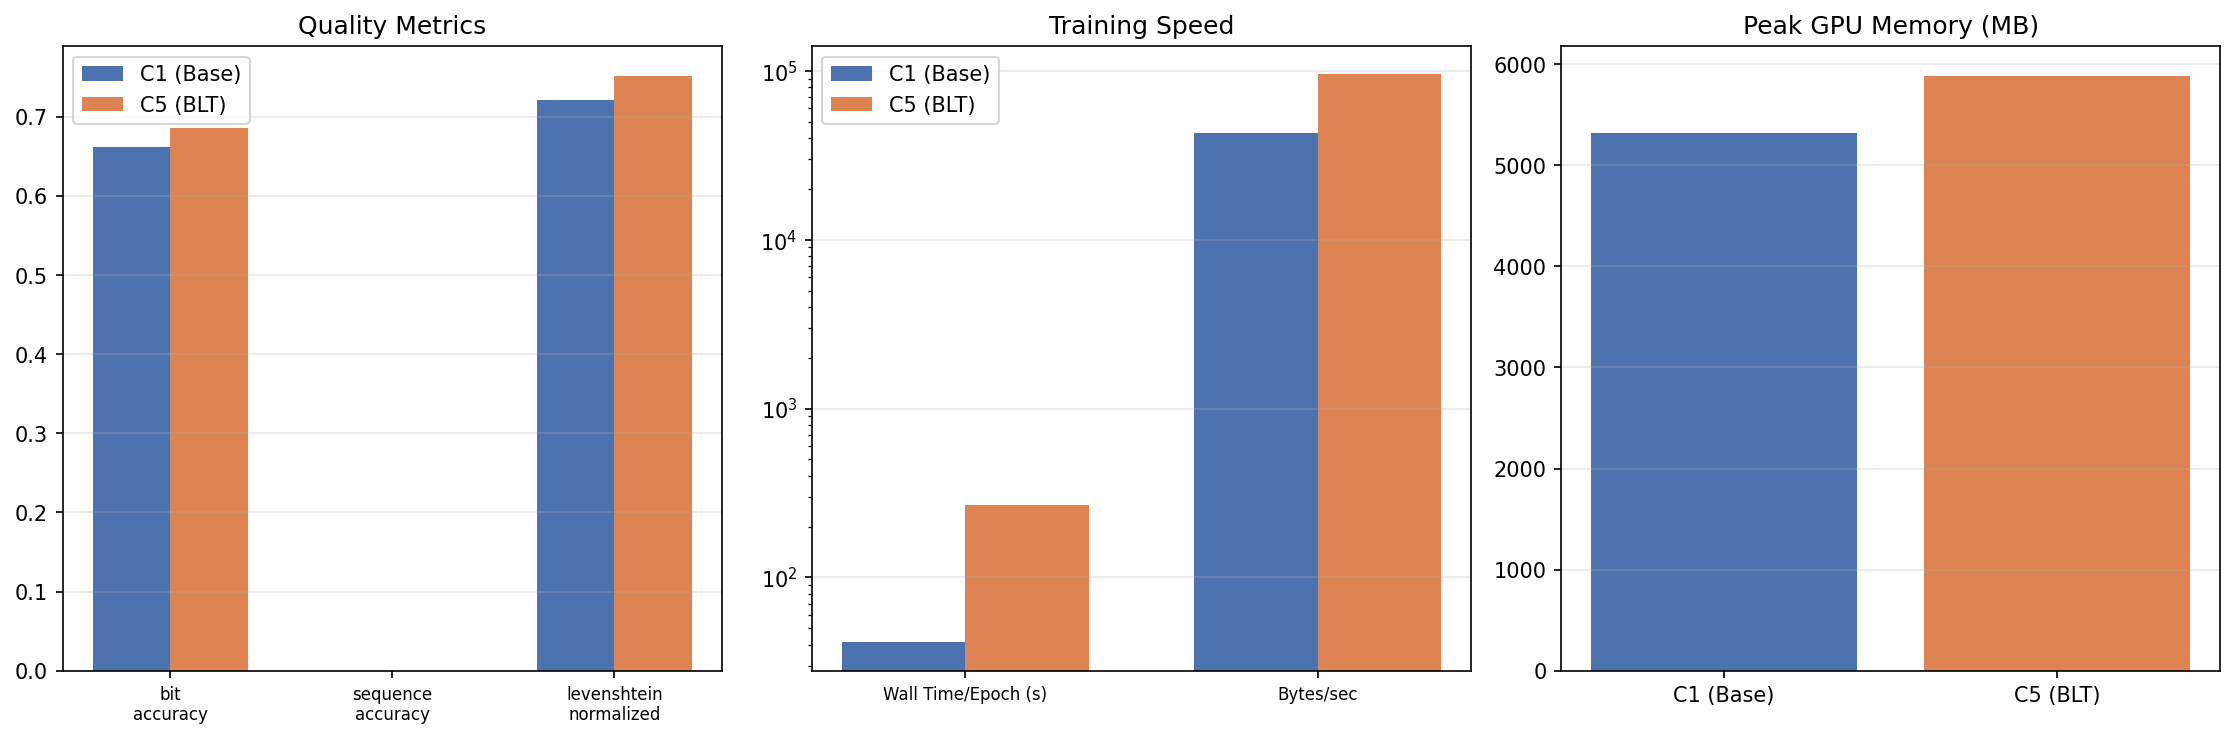
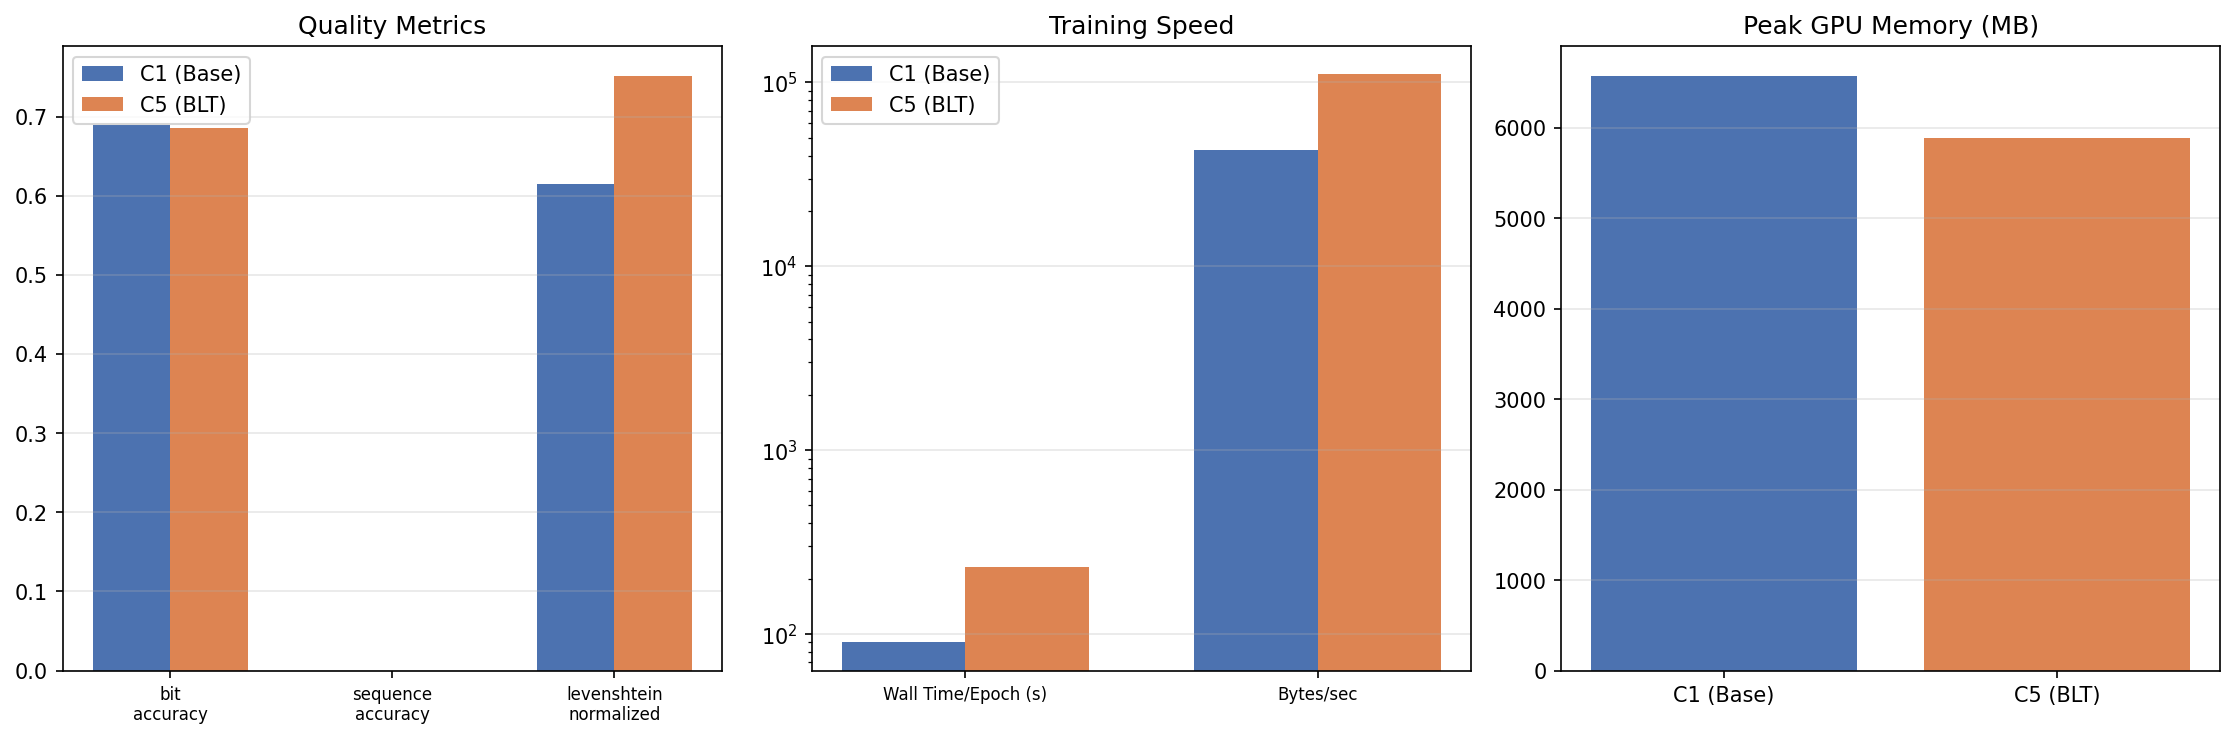
Best yet

diff --git a/README.md b/README.md
@@ -24,21 +24,29 @@ For C5, we set `patch_size=9`. Since the cipher is literally the 8-bit binary AS
 
 | Configuration | Bit-Level Acc | Sequence Acc | Levenshtein (Norm) | BLEU | ROUGE-L |
 |---------------|---------------|--------------|--------------------|------|---------|
-| C1 | 0.6620 | 0.0000 | 0.7219 | 1.2620 | 0.1701 |
-| C2 | 0.6642 | 0.0000 | 0.7330 | 1.0047 | 0.1716 |
-| C3 | 0.6577 | 0.0000 | 0.7342 | 0.8887 | 0.1586 |
-| C4 | 0.6620 | 0.0000 | 0.7301 | 1.1259 | 0.1657 |
-| C5 | 0.6855 | 0.0000 | 0.7519 | N/A - token-free | N/A - token-free |
+| C1 | 0.6889 | 0.0000 | 0.6149 | 4.7475 | 0.2583 |
+| C2 | 0.6903 | 0.0000 | 0.5793 | 7.3908 | 0.3108 |
+| C3 | 0.6833 | 0.0000 | 0.6521 | 2.8328 | 0.2245 |
+| C4 | 0.6855 | 0.0000 | 0.6233 | 4.2593 | 0.2516 |
+| C5 | 0.6854 | 0.0000 | 0.7516 | N/A - token-free | N/A - token-free |
+
+### Naive Baselines
+*Evaluated on the raw test set prior to model evaluation to contextualize bit-level accuracy.*
+
+| Baseline | Bit-Level Acc | Sequence Acc | Levenshtein (Norm) |
+|----------|---------------|--------------|--------------------|
+| Most Frequent Byte | 0.6614 | 0.0000 | 0.8317 |
+| Unigram Sample | 0.6740 | 0.0000 | 0.8362 |
 
 ### Resource Utilization
 
 | Configuration | Tokens/Sec | Bytes/Sec | Peak VRAM (MB) | Epoch Time (s) |
 |---------------|------------|-----------|----------------|----------------|
-| C1 | 13629.7 | 43143.0 | 5317.4 | 41.3 |
-| C2 | 12665.9 | 40164.1 | 5316.0 | 44.4 |
-| C3 | 14069.8 | 44551.9 | 5304.0 | 40.0 |
-| C4 | 13835.0 | 43792.6 | 5049.4 | 40.7 |
-| C5 | 9005.3 | 95236.0 | 5885.8 | 268.4 |
+| C1 | 6240.0 | 43003.3 | 6574.5 | 90.2 |
+| C2 | 5711.1 | 39358.2 | 6573.2 | 98.5 |
+| C3 | 6794.5 | 46809.2 | 6559.1 | 82.8 |
+| C4 | 7025.9 | 48419.2 | 6246.8 | 80.1 |
+| C5 | 10446.8 | 110480.9 | 5886.1 | 231.4 |
 
 *Note: For C5 (BLT), the "Tokens/Sec" column counts raw bytes processed per second, whereas for C1-C4 it counts BPE tokens per second. Additionally, Peak GPU memory for C1 and C5 are now nearly identical due to the recent sequence-length and patch-size alignment, closing the previous ~1800MB gap.*
 
